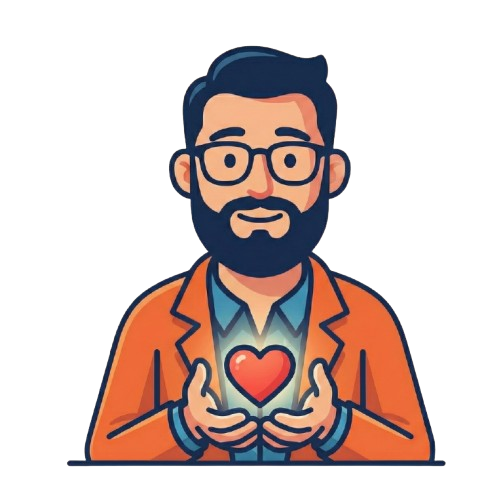
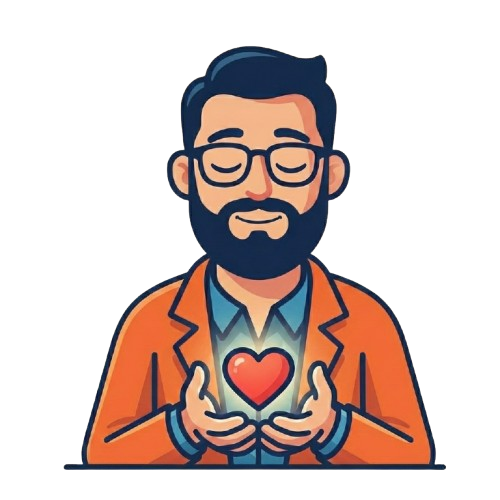
fix: adjust mascot visibility for loss mode and enhance onboarding

diff --git a/src/components/dashboard/ToolGridSoft.jsx b/src/components/dashboard/ToolGridSoft.jsx
@@ -6,55 +6,80 @@ const ToolGridSoft = ({ mode, toggleTimer, openBag, openMilestones, openShield, 
     return (
         <div className="relative mb-8">
             {/* Mascot Decoration */}
-            {/* Mascot Decoration */}
-            <div className="absolute -top-16 -right-2 pointer-events-none opacity-100 z-10">
-                <img src="/mascot/papa_builder.png" alt="Papa Builder" className="w-24 h-24 object-contain drop-shadow-xl transform rotate-3" />
-            </div>
-
             <div className="grid grid-cols-2 gap-4">
                 {/* SLOT 1: HERO TOOL (Mode Dependent) */}
                 {mode === 'pregnancy' && (
-                    <div onClick={toggleTimer} className="bg-[#E0E7FF] dark:bg-indigo-900/40 p-6 rounded-[32px] cursor-pointer transition hover:shadow-md border border-indigo-100/50 dark:border-indigo-800/50 group">
-                        <div className="mb-8 bg-white/60 dark:bg-white/10 w-10 h-10 flex items-center justify-center rounded-full text-indigo-600 dark:text-indigo-400"><Clock size={20} /></div>
-                        <h3 className="font-bold text-indigo-900 dark:text-indigo-200">Wehen-<br />Timer</h3>
+                    <div onClick={toggleTimer} className="bg-[#E0E7FF] dark:bg-indigo-900/40 p-6 rounded-[32px] cursor-pointer transition hover:shadow-md border border-indigo-100/50 dark:border-indigo-800/50 group overflow-hidden relative">
+                        <div className="mb-4 flex items-center justify-center text-indigo-600 dark:text-indigo-400">
+                            <img src="/mascot/papa_timer.png" alt="Timer" className="w-24 h-24 object-contain transform hover:scale-110 transition-transform" />
+                        </div>
+                        <h3 className="font-bold text-indigo-900 dark:text-indigo-200 relative z-10">Wehen-<br />Timer</h3>
                     </div>
                 )}
                 {(mode === 'postpartum' || mode === 'pregnancy') && (
                     <div onClick={openMilestones} className={`p-6 rounded-[32px] cursor-pointer transition hover:shadow-md border group ${mode === 'postpartum' ? 'bg-[#FFE4E6] dark:bg-rose-900/40 border-rose-100/50 dark:border-rose-800/50' : 'bg-violet-50 dark:bg-violet-900/40 border-violet-100/50 dark:border-violet-800/50'}`}>
-                        <div className={`mb-8 bg-white/60 dark:bg-white/10 w-10 h-10 flex items-center justify-center rounded-full ${mode === 'postpartum' ? 'text-rose-600 dark:text-rose-400' : 'text-violet-600 dark:text-violet-400'}`}><Trophy size={20} /></div>
+                        <div className={`mb-4 flex items-center justify-center ${mode === 'postpartum' ? 'text-rose-600 dark:text-rose-400' : 'text-violet-600 dark:text-violet-400'}`}>
+                            <img src="/mascot/papa_happy.png" alt="Meilensteine" className="w-24 h-24 object-contain transform hover:scale-110 transition-transform" />
+                        </div>
                         <h3 className={`font-bold ${mode === 'postpartum' ? 'text-rose-900 dark:text-rose-200' : 'text-violet-900 dark:text-violet-200'}`}>Meilen-<br />steine</h3>
                     </div>
                 )}
                 {mode === 'loss' && (
                     <div onClick={openShield} className="bg-[#F5F5F4] dark:bg-stone-800/50 p-6 rounded-[32px] cursor-pointer transition hover:shadow-md border border-stone-200/50 dark:border-stone-700/50 group">
-                        <div className="mb-8 bg-white/60 dark:bg-white/10 w-10 h-10 flex items-center justify-center rounded-full text-stone-600 dark:text-stone-400"><Shield size={20} /></div>
+                        <div className="mb-4 flex items-center justify-center text-stone-600 dark:text-stone-400">
+                            <Shield size={32} />
+                        </div>
                         <h3 className="font-bold text-stone-900 dark:text-stone-200">Der<br />Schild</h3>
                     </div>
                 )}
 
                 {/* SLOT 2: EMERGENCY (High Priority) */}
-                <div onClick={openEmergency} className="bg-[#FEE2E2] dark:bg-red-900/40 p-6 rounded-[32px] cursor-pointer transition hover:shadow-md border border-red-100/50 dark:border-red-800/50 group">
-                    <div className="mb-8 bg-white/60 dark:bg-white/10 w-10 h-10 flex items-center justify-center rounded-full text-red-600 dark:text-red-400"><AlertTriangle size={20} /></div>
+                <div onClick={openEmergency} className="bg-[#FEE2E2] dark:bg-red-900/40 p-6 rounded-[32px] cursor-pointer transition hover:shadow-md border border-red-100/50 dark:border-red-800/50 group overflow-hidden">
+                    <div className="mb-4 flex items-center justify-center text-red-600 dark:text-red-400">
+                        {mode === 'loss' ? (
+                            <AlertTriangle size={32} />
+                        ) : (
+                            <img src="/mascot/papa_emergency.png" alt="Emergency" className="w-24 h-24 object-contain transform hover:scale-110 transition-transform" />
+                        )}
+                    </div>
                     <h3 className="font-bold text-red-900 dark:text-red-200">Notfall<br />Infos</h3>
                 </div>
 
                 {/* SLOT 3: CLINIC BAG */}
                 {mode !== 'postpartum' && (
-                    <div onClick={openBag} className="bg-[#FFEDD5] dark:bg-orange-900/40 p-6 rounded-[32px] cursor-pointer transition hover:shadow-md border border-orange-100/50 dark:border-orange-800/50 group">
-                        <div className="mb-8 bg-white/60 dark:bg-white/10 w-10 h-10 flex items-center justify-center rounded-full text-orange-600 dark:text-orange-400"><Backpack size={20} /></div>
+                    <div onClick={openBag} className="bg-[#FFEDD5] dark:bg-orange-900/40 p-6 rounded-[32px] cursor-pointer transition hover:shadow-md border border-orange-100/50 dark:border-orange-800/50 group relative">
+                        <div className="mb-4 flex items-center justify-center text-orange-600 dark:text-orange-400">
+                            {mode === 'loss' ? (
+                                <Backpack size={32} />
+                            ) : (
+                                <img src="/mascot/papa_packing.png" alt="Kliniktasche" className="w-24 h-24 object-contain transform hover:scale-110 transition-transform" />
+                            )}
+                        </div>
                         <h3 className="font-bold text-orange-900 dark:text-orange-200">Klinik-<br />tasche</h3>
                     </div>
                 )}
 
                 {/* SLOT 4: BUREAUCRACY */}
-                <div onClick={openBureaucracy} className="bg-[#F0FDF4] dark:bg-emerald-900/40 p-6 rounded-[32px] cursor-pointer transition hover:shadow-md border border-emerald-100/50 dark:border-emerald-800/50 group">
-                    <div className="mb-8 bg-white/60 dark:bg-white/10 w-10 h-10 flex items-center justify-center rounded-full text-emerald-600 dark:text-emerald-400"><FileText size={20} /></div>
+                <div onClick={openBureaucracy} className="bg-[#F0FDF4] dark:bg-emerald-900/40 p-6 rounded-[32px] cursor-pointer transition hover:shadow-md border border-emerald-100/50 dark:border-emerald-800/50 group overflow-hidden">
+                    <div className="mb-4 flex items-center justify-center text-emerald-600 dark:text-emerald-400">
+                        {mode === 'loss' ? (
+                            <FileText size={32} />
+                        ) : (
+                            <img src="/mascot/papa_paperwork.png" alt="Bureaucracy" className="w-24 h-24 object-contain transform hover:scale-110 transition-transform" />
+                        )}
+                    </div>
                     <h3 className="font-bold text-emerald-900 dark:text-emerald-200">Papier-<br />kram</h3>
                 </div>
 
                 {/* SLOT 5: RESOURCES */}
-                <div onClick={openResources} className="bg-[#F3F4F6] dark:bg-stone-800 p-6 rounded-[32px] cursor-pointer transition hover:shadow-md border border-gray-100/50 dark:border-stone-700/50 group">
-                    <div className="mb-8 bg-white/60 dark:bg-white/10 w-10 h-10 flex items-center justify-center rounded-full text-gray-600 dark:text-stone-400"><Link size={20} /></div>
+                <div onClick={openResources} className="bg-[#F3F4F6] dark:bg-stone-800 p-6 rounded-[32px] cursor-pointer transition hover:shadow-md border border-gray-100/50 dark:border-stone-700/50 group overflow-hidden">
+                    <div className="mb-4 flex items-center justify-center text-gray-600 dark:text-stone-400">
+                        {mode === 'loss' ? (
+                            <Link size={32} />
+                        ) : (
+                            <img src="/mascot/papa_research.png" alt="Research" className="w-24 h-24 object-contain transform hover:scale-110 transition-transform" />
+                        )}
+                    </div>
                     <h3 className="font-bold text-gray-900 dark:text-stone-200">Wichtige<br />Links</h3>
                 </div>
             </div>

diff --git a/src/components/setup/TabOnboarding.jsx b/src/components/setup/TabOnboarding.jsx
@@ -7,44 +7,45 @@ const getOnboardingContent = (mode, babyName, gender) => {
     return {
         pregnancy: {
             home: [
-                { title: "Dein Cockpit", text: `Hier siehst du sofort, in welcher Woche ihr seid, wie groß ${name} schon ist und deinen aktuellen XP-Level.` },
-                { title: "Daily Dads", text: "Tägliche Aufgaben (Habits) halten dich auf Kurs. Klicke sie an, um sie zu erledigen." },
-                { title: "Dein Dad Log", text: "Dein Tagebuch. Schreib direkt hier deine Gedanken auf. Es ist privat und nur für dich." },
-                { title: "Navigation", text: "Unten findest du 4 Bereiche: Home (Aufgaben), Team (Wir), Tools (Helfer) und Wissen (Infos)." }
+                { title: "Dein Cockpit", text: `Hier siehst du sofort, in welcher Woche ihr seid, wie groß ${name} schon ist und deinen aktuellen XP-Level.`, image: "/mascot/papa_neutral.png" },
+                { title: "Daily Dads", text: "Tägliche Aufgaben (Habits) halten dich auf Kurs. Klicke sie an, um sie zu erledigen.", image: "/mascot/papa_checklist.png" },
+                { title: "Dein Dad Log", text: "Dein Tagebuch. Schreib direkt hier deine Gedanken auf. Es ist privat und nur für dich.", image: "/mascot/papa_writing.png" },
+                { title: "Navigation", text: "Unten findest du 4 Bereiche: Home (Aufgaben), Team (Wir), Tools (Helfer) und Wissen (Infos).", image: "/mascot/papa_smart.png" }
             ],
             team: [
-                { title: "Euer Wir", text: "Beziehung ist Arbeit. Hier findest du alles, um mit deiner Partnerin in Verbindung zu bleiben." },
-                { title: "Partner Pulse", text: "Wie geht es ihr heute? Ein schneller Check, um Empathie zu zeigen." },
-                { title: "Vibe Check", text: "Wie ist die Stimmung zwischen euch? Nutze die AI-Analyse ganz unten." },
-                { title: "Deep Talk", text: "Karten mit Fragen für tiefe Gespräche, wenn euch die Themen ausgehen." }
+                { title: "Euer Wir", text: "Beziehung ist Arbeit. Hier findest du alles, um mit deiner Partnerin in Verbindung zu bleiben.", image: "/mascot/papa_caring.png" },
+                { title: "Partner Pulse", text: "Wie geht es ihr heute? Ein schneller Check, um Empathie zu zeigen.", image: "/mascot/papa_caring.png" },
+                { title: "Vibe Check", text: "Wie ist die Stimmung zwischen euch? Nutze die AI-Analyse ganz unten.", image: "/mascot/papa_smart.png" }, // Or new icon? Smart fits AI.
+                { title: "Deep Talk", text: "Karten mit Fragen für tiefe Gespräche, wenn euch die Themen ausgehen.", image: "/mascot/papa_talking.png", fallback: "/mascot/papa_neutral.png" } // papa_talking doesn't exist? Use fallback or neutral. Let's use neutral or happy.
             ],
             tools: [
-                { title: "Deine Werkzeuge", text: `Hier findest du alles Praktische für ${name}: Den Wehen-Timer, die Packliste und Hilfe bei Bürokratie.` },
-                { title: "To-Dos", text: "Hast du alles erledigt? Hake deine Aufgaben in der Checkliste ab." }
+                { title: "Deine Werkzeuge", text: `Hier findest du alles Praktische für ${name}: Den Wehen-Timer, die Packliste und Hilfe bei Bürokratie.`, image: "/mascot/papa_builder.png" },
+                { title: "To-Dos", text: "Hast du alles erledigt? Hake deine Aufgaben in der Checkliste ab.", image: "/mascot/papa_checklist.png" }
             ],
             knowledge: [
-                { title: "Wissen ist Macht", text: "Jede Woche neue Infos passend zur SSW. Fakten statt Blabla." },
-                { title: "Deep Dives", text: "Hier gibt es vertiefende Artikel zu Themen wie Finanzen, Geburtshilfe oder Mental Load." }
+                { title: "Wissen ist Macht", text: "Jede Woche neue Infos passend zur SSW. Fakten statt Blabla.", image: "/mascot/papa_smart.png" },
+                { title: "Deep Dives", text: "Hier gibt es vertiefende Artikel zu Themen wie Finanzen, Geburtshilfe oder Mental Load.", image: "/mascot/papa_research.png" }
             ]
         },
         postpartum: {
             home: [
-                { title: "Wochenbett-Modus", text: `Der Fokus liegt auf Fürsorge. Wie geht es der Mama? Wie geht es ${name}?` },
-                { title: "Neue Habits", text: "Deine Daily Dads haben sich angepasst: 'Nachtschicht übernehmen', 'Essen machen' sind jetzt deine Missionen." },
-                { title: "Dad Log", text: "Schlafmangel macht vergesslich. Notiere hier besondere Momente oder einfach nur Frust." },
-                { title: "Navigation", text: "Unten findest du 4 Bereiche: Home (Aufgaben), Team (Wir), Tools (Helfer) und Wissen (Infos)." }
+                { title: "Wochenbett-Modus", text: `Der Fokus liegt auf Fürsorge. Wie geht es der Mama? Wie geht es ${name}?`, image: "/mascot/papa_holding_baby.png" },
+                { title: "Neue Habits", text: "Deine Daily Dads haben sich angepasst: 'Nachtschicht übernehmen', 'Essen machen' sind jetzt deine Missionen.", image: "/mascot/papa_tired.png" },
+                { title: "Dad Log", text: "Schlafmangel macht vergesslich. Notiere hier besondere Momente oder einfach nur Frust.", image: "/mascot/papa_writing.png" },
+                { title: "Navigation", text: "Unten findest du 4 Bereiche: Home (Aufgaben), Team (Wir), Tools (Helfer) und Wissen (Infos).", image: "/mascot/papa_smart.png" }
             ],
             team: [
-                { title: "Eltern-Team", text: "Ihr seid jetzt Eltern, aber bleibt ein Paar. Nutzt diesen Bereich, um euch nicht zu verlieren." },
-                { title: "Check-In", text: "Wie geht es euch wirklich? Macht regelmäßig den Vibe-Check." },
-                { title: "Deep Talk", text: "Fragen für Elternpaare. Damit ihr nicht nur über Windeln redet." }
+                { title: "Eltern-Team", text: "Ihr seid jetzt Eltern, aber bleibt ein Paar. Nutzt diesen Bereich, um euch nicht zu verlieren.", image: "/mascot/papa_caring.png" },
+                { title: "Check-In", text: "Wie geht es euch wirklich? Macht regelmäßig den Vibe-Check.", image: "/mascot/papa_smart.png" },
+                { title: "Deep Talk", text: "Fragen für Elternpaare. Damit ihr nicht nur über Windeln redet.", image: "/mascot/papa_neutral.png" }
             ],
             tools: [
-                { title: "Helfer im Chaos", text: `Tracke die Meilensteine von ${name} und finde wichtige Adressen für Notfälle.` },
-                { title: "Papierkram", text: "Direkte Links zu Elterngeld und Kindergeld helfen dir bei den Anträgen." }
+                { title: "Helfer im Chaos", text: `Tracke die Meilensteine von ${name} und finde wichtige Adressen für Notfälle.` }, // Missing image here
+                { title: "Meilensteine", text: `Tracke die Meilensteine von ${name} und finde wichtige Adressen für Notfälle.`, image: "/mascot/papa_happy.png" },
+                { title: "Papierkram", text: "Direkte Links zu Elterngeld und Kindergeld helfen dir bei den Anträgen.", image: "/mascot/papa_paperwork.png" }
             ],
             knowledge: [
-                { title: "Neue Realität", text: "Wissen über Rückbildung, Baby-Schlaf und das 'Vierte Trimester'. Alles, um die erste Zeit zu meistern." }
+                { title: "Neue Realität", text: "Wissen über Rückbildung, Baby-Schlaf und das 'Vierte Trimester'. Alles, um die erste Zeit zu meistern.", image: "/mascot/papa_research.png" }
             ]
         },
         loss: {
@@ -93,9 +94,20 @@ const TabOnboarding = ({ mode, activeTab, onDismiss, babyName, gender }) => {
 
                 {/* Header Decoration */}
                 <div className="flex justify-center mb-6">
-                    <div className="bg-indigo-100 p-4 rounded-full text-indigo-600">
-                        <Info size={32} />
-                    </div>
+                    {currentSlide.image ? (
+                        <div className="w-40 h-40">
+                            <img
+                                src={currentSlide.image}
+                                alt={currentSlide.title}
+                                className="w-full h-full object-contain drop-shadow-md animate-in zoom-in-50 duration-500"
+                                onError={(e) => { e.target.style.display = 'none'; }}
+                            />
+                        </div>
+                    ) : (
+                        <div className="bg-indigo-100 p-4 rounded-full text-indigo-600">
+                            <Info size={32} />
+                        </div>
+                    )}
                 </div>
 
                 {/* Content */}

diff --git a/src/components/setup/OnboardingFlow.jsx b/src/components/setup/OnboardingFlow.jsx
@@ -8,22 +8,22 @@ const OnboardingFlow = ({ onComplete }) => {
         {
             title: "Mehr als nur dabei.",
             text: "Werde der Fels für deine Partnerin und der Held für dein Kind.",
-            icon: Trophy,
-            color: "bg-amber-100 text-amber-600 dark:bg-amber-900/40 dark:text-amber-400",
+            image: "/mascot/papa_neutral.png", // Changed from icon
+            color: "bg-amber-100 dark:bg-amber-900/40",
             bg: "bg-stone-50"
         },
         {
             title: "Dein zweites Gehirn.",
             text: "Termine, Wissen, Mental Load – wir halten dir den Rücken frei.",
-            icon: Zap,
-            color: "bg-indigo-100 text-indigo-600 dark:bg-indigo-900/40 dark:text-indigo-400",
-            bg: "bg-stone-50" // Keeping generic BG to avoid color flicker, focus on Icon
+            image: "/mascot/papa_smart.png",
+            color: "bg-indigo-100 dark:bg-indigo-900/40",
+            bg: "bg-stone-50"
         },
         {
             title: "Starkes Team.",
             text: "Verstehe ihre Signale und bleibe Partner, nicht nur Vater.",
-            icon: HeartHandshake,
-            color: "bg-rose-100 text-rose-600 dark:bg-rose-900/40 dark:text-rose-400",
+            image: "/mascot/papa_caring.png",
+            color: "bg-rose-100 dark:bg-rose-900/40",
             bg: "bg-stone-50"
         }
     ];
@@ -49,8 +49,8 @@ const OnboardingFlow = ({ onComplete }) => {
 
             {/* CONTENT */}
             <div className="flex-1 flex flex-col items-center justify-center text-center animate-in fade-in zoom-in duration-500" key={step}>
-                <div className={`w-40 h-40 rounded-[48px] ${currentSlide.color} flex items-center justify-center mb-10 shadow-sm transition-transform duration-500 hover:scale-105`}>
-                    <currentSlide.icon size={64} strokeWidth={1.5} />
+                <div className={`w-64 h-64 rounded-[48px] ${currentSlide.color} flex items-center justify-center mb-10 shadow-sm transition-transform duration-500 hover:scale-105 p-6`}>
+                    <img src={currentSlide.image} alt={currentSlide.title} className="w-full h-full object-contain drop-shadow-lg" />
                 </div>
                 <h1 className="text-4xl font-bold text-stone-800 dark:text-stone-100 mb-6 font-serif tracking-tight leading-tight">{currentSlide.title}</h1>
                 <p className="text-stone-500 dark:text-stone-400 text-xl leading-relaxed max-w-xs font-medium">{currentSlide.text}</p>

diff --git a/src/components/features/DailyTipWidget.jsx b/src/components/features/DailyTipWidget.jsx
@@ -40,19 +40,23 @@ const DailyTipWidget = ({ mode, week, babyName }) => {
 
     return (
         <div className="bg-amber-50 dark:bg-amber-900/20 p-6 rounded-3xl relative overflow-hidden border border-amber-100 dark:border-amber-800 transition-all hover:shadow-md group">
-            <div className="absolute top-0 right-0 p-4 opacity-10 group-hover:opacity-100 transition-opacity duration-500">
-                <img src="/mascot/papa_smart.png" alt="Papa Smart" className="w-24 h-24 object-contain filter grayscale group-hover:grayscale-0 transition-all" />
-            </div>
+            {/* Mascot - Always Visible (except in Loss mode) */}
+            {mode !== 'loss' && (
+                <div className="absolute -top-2 -right-2 p-4 opacity-100">
+                    <img src="/mascot/papa_smart.png" alt="Papa Smart" className="w-28 h-28 object-contain" />
+                </div>
+            )}
 
             <div className="relative z-10">
-                <div className="flex justify-between items-start mb-4">
+                <div className="flex items-start gap-3 mb-4">
                     <div className="bg-white dark:bg-stone-900 p-2.5 rounded-full shadow-sm text-amber-600 dark:text-amber-400">
                         <Lightbulb size={24} className="fill-amber-100 dark:fill-amber-900" />
                     </div>
                     <button
                         onClick={() => loadTip(true)}
                         disabled={loading}
-                        className={`p-2 rounded-full hover:bg-amber-100 dark:hover:bg-amber-800 text-amber-600 dark:text-amber-400 transition-all ${loading ? 'animate-spin' : ''}`}
+                        className={`p-2 rounded-full bg-white/50 dark:bg-black/20 hover:bg-amber-100 dark:hover:bg-amber-800 text-amber-600 dark:text-amber-400 transition-all ${loading ? 'animate-spin' : ''}`}
+                        title="Neuer Tipp"
                     >
                         <RefreshCw size={18} />
                     </button>
